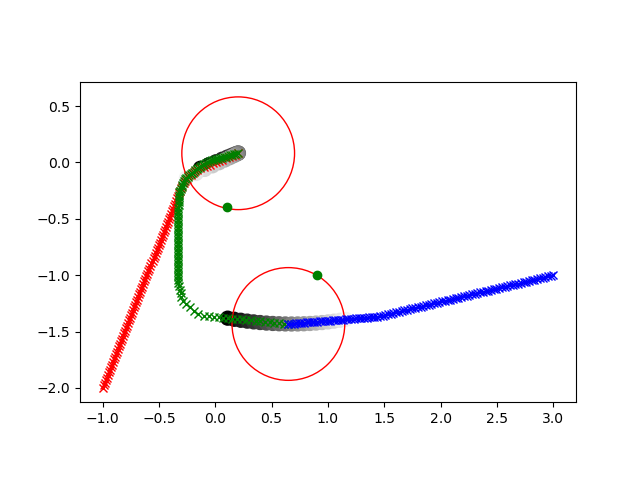
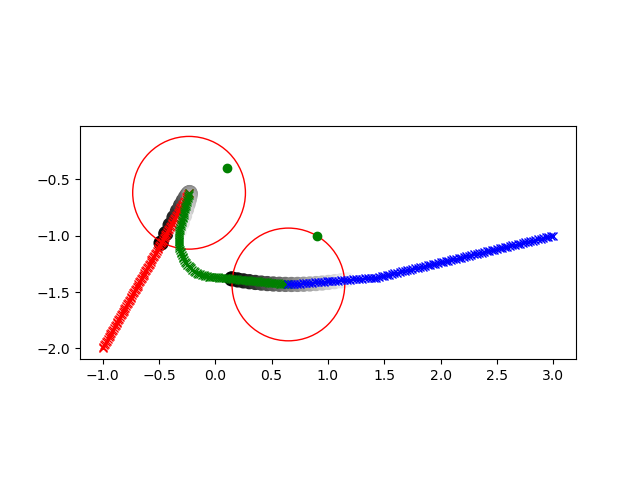
change aico

diff --git a/src/pickup_aico.py b/src/pickup_aico.py
@@ -58,7 +58,7 @@ def pickup_aico(can_position,traj_path,gripper_orientation,debug=1,doplot=0):
         relative_direction = location_can-location_gripper
         gripper_orientation = [relative_direction[0],relative_direction[1]]
         gripper_orientation = gripper_orientation/(gripper_orientation[0]**2+gripper_orientation[1]**2)**0.5
-    t_grasp_duration = 0.5
+    t_grasp_duration = 1.5
     T_grasp_begin = int(t_grasp_begin / problem.tau)
     T_grasp_end = int((t_grasp_begin + t_grasp_duration) / problem.tau)
     problem.get_task_maps()["EffAxisAlignment_before_grasp"].set_direction("hand_palm_link",np.append(gripper_orientation,[0.0]))
@@ -70,8 +70,8 @@ def pickup_aico(can_position,traj_path,gripper_orientation,debug=1,doplot=0):
         problem.set_rho('EffAxisAlignment_before_grasp', 100, t)
     for t in range(T_grasp_begin, problem.T):
         problem.set_rho('EffAxisAlignment_after_grasp', 1e3, t)
-    problem.set_rho('LiftOffTable', 1e2, T_grasp_begin - 20)
-    problem.set_rho('LiftOffTable', 1e2, T_grasp_end + 20)
+    for t in range(10, problem.T-10):
+        problem.set_rho('StayHeight', 1e2, t)
     problem.set_rho('FinalPose', 1e3, -1)
 
     # Solve

diff --git a/src/my_base_client.py b/src/my_base_client.py
@@ -54,8 +54,8 @@ def load_base_goal(base_list,cli_base,dt):
 
 # Callback functions for the base action client used in pickup
 def done_cb_base_pickup(state, result):
-    # print('[DONE_BASE] the state is: '+str(state))
-    # print('[DONE_BASE] the result is: '+str(result))
+    print('[DONE_BASE] the state is: '+str(state))
+    print('[DONE_BASE] the result is: '+str(result))
     if state == 3:
         print('[BASE FINISHED]')
         n = int(rospy.get_param("pickup_status"))+1

diff --git a/src/pickup_plan.py b/src/pickup_plan.py
@@ -12,7 +12,7 @@ import math
 debug=1
 start=[-1,-2,0]
 end=[3,-1,0]
-can_position = [0.1, -0.3937, 0.7941]
+can_position = [0.1, -0.4, 0.7941]
 place_position = [0.9, -1, 0.9]
 # For setting orientation
 Y_r2c = math.atan2(can_position[1]-start[1],can_position[0]-start[0])

diff --git a/src/pickup_follow.py b/src/pickup_follow.py
@@ -17,7 +17,7 @@ traj_aico1 = np.load(sys.path[0]+"/pickup_traj/"+"traj_aico1.npy")
 traj_aico2 = np.load(sys.path[0]+"/pickup_traj/"+"traj_aico2.npy")
 
 dt=0.15
-vel_limit = 0.1
+vel_limit = 0.05
 start=[-1,-2,0.70558]
 # Initialize
 print("Initializing")
